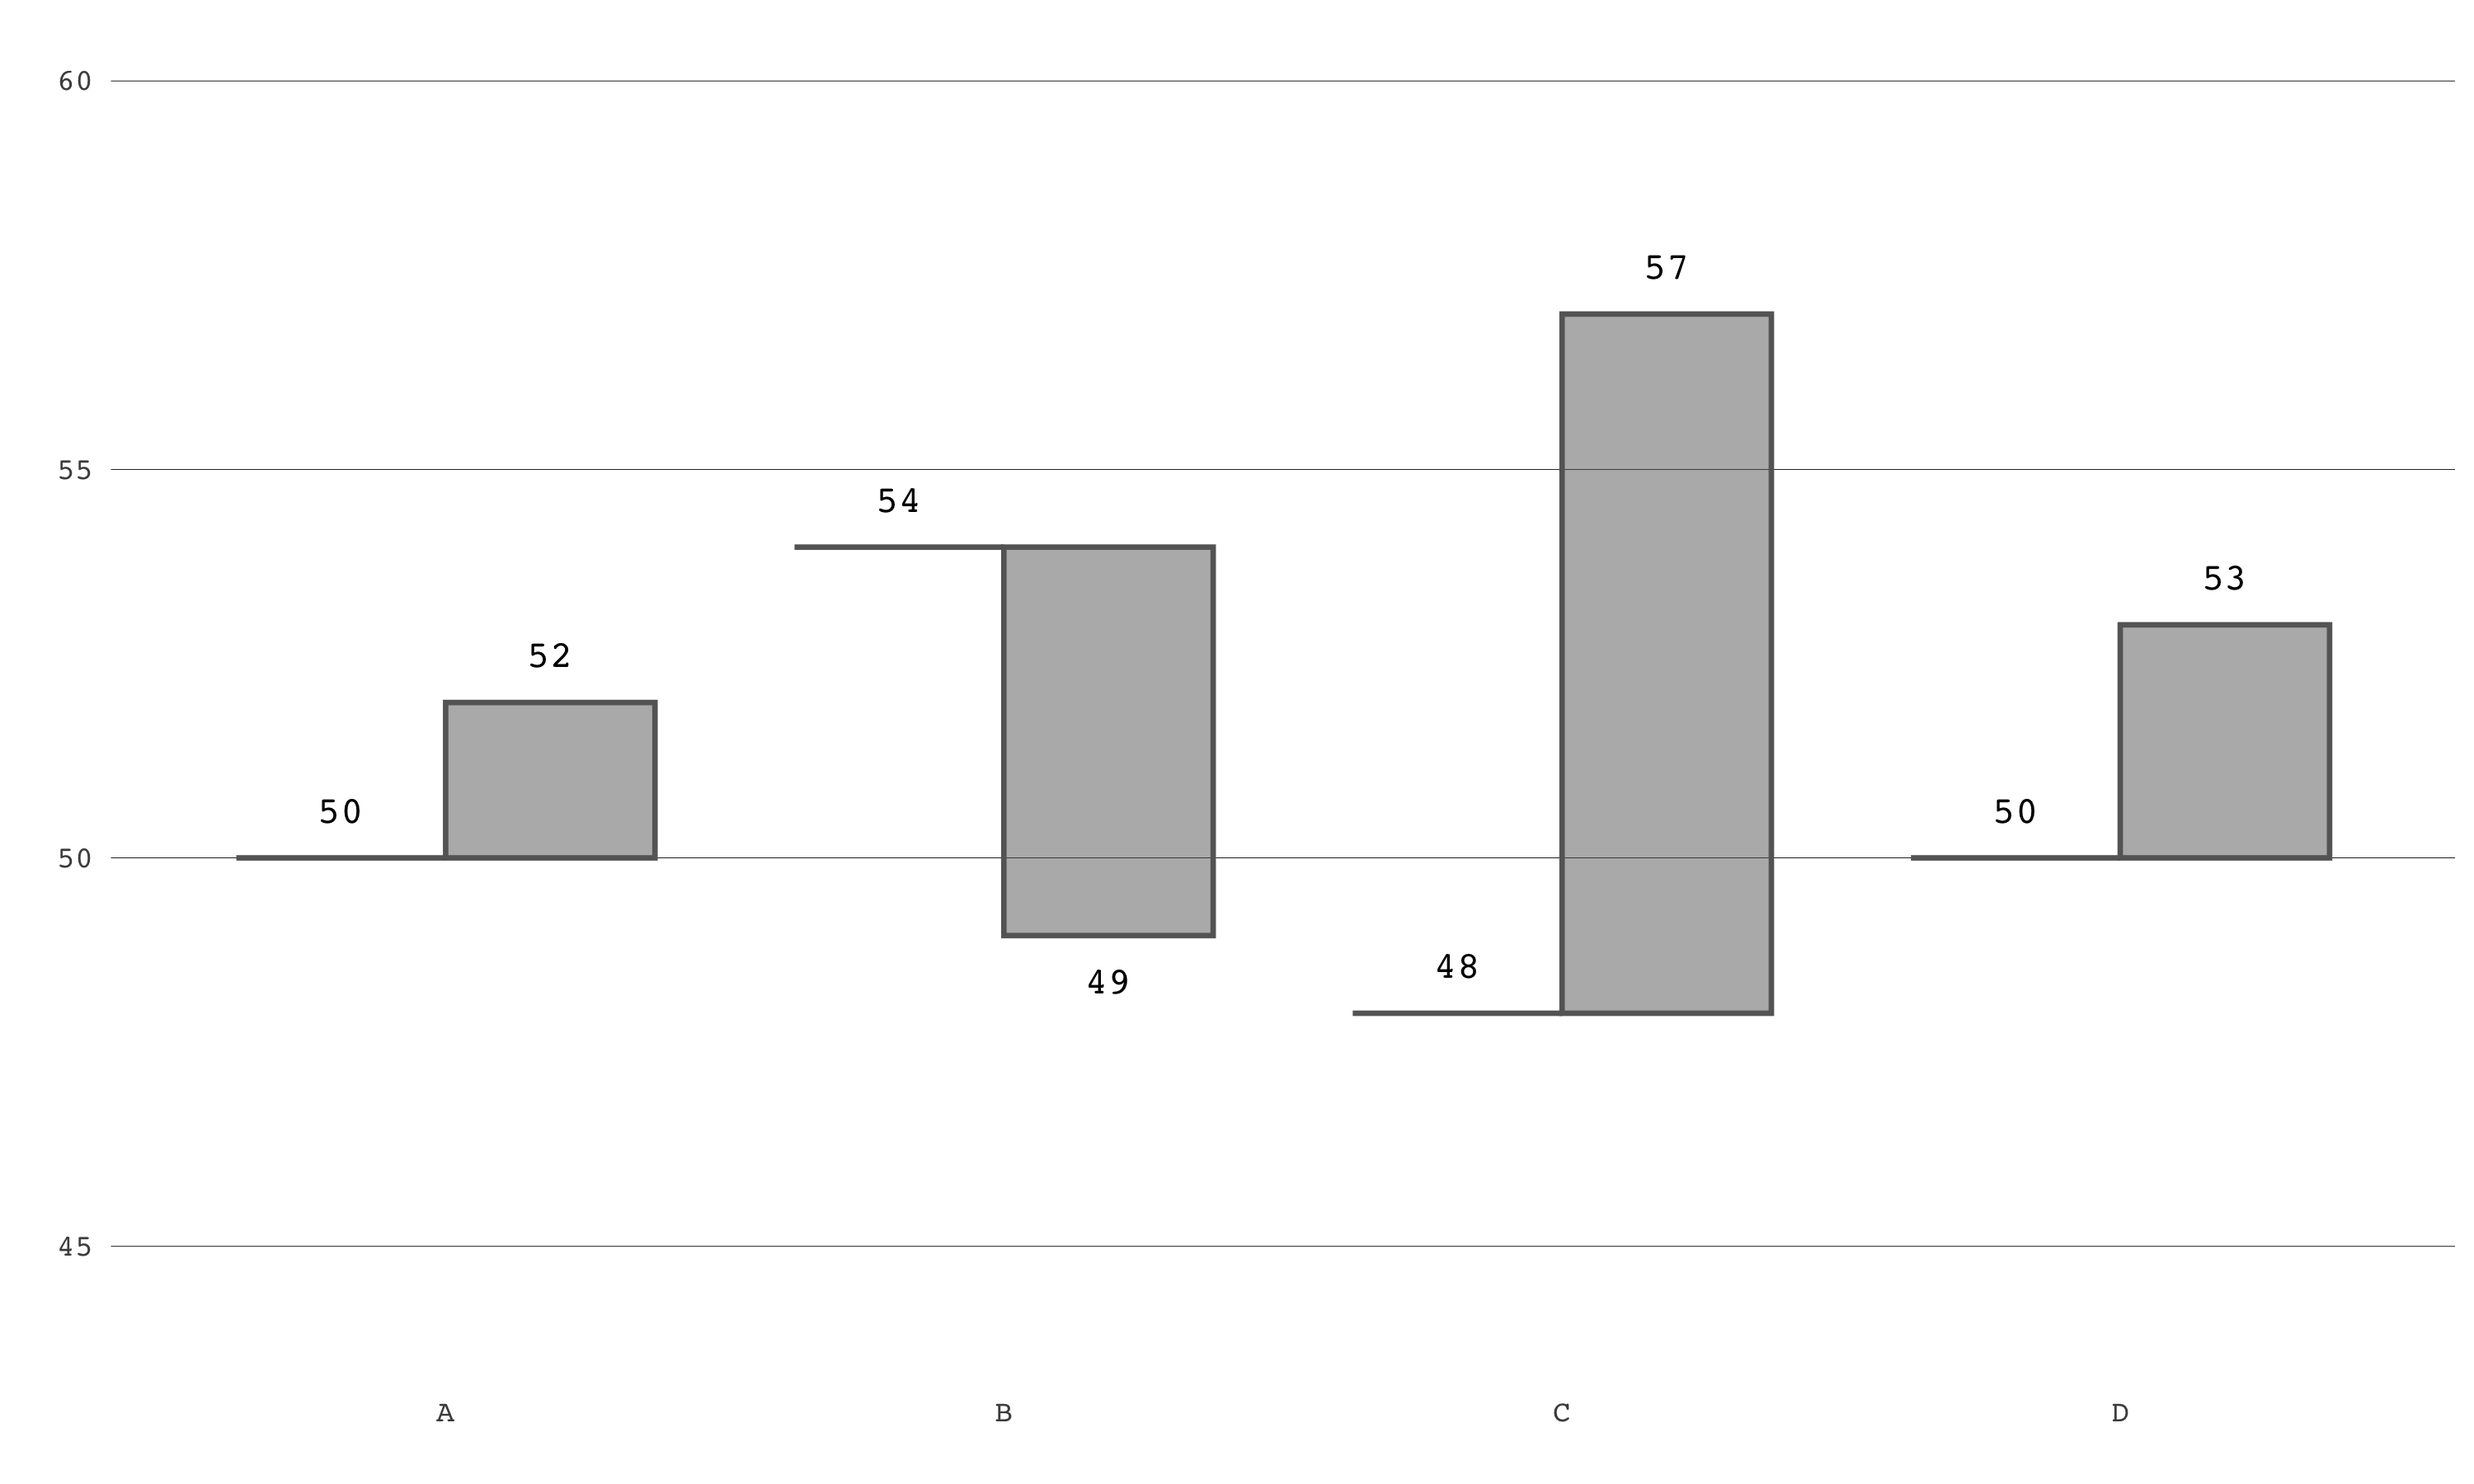
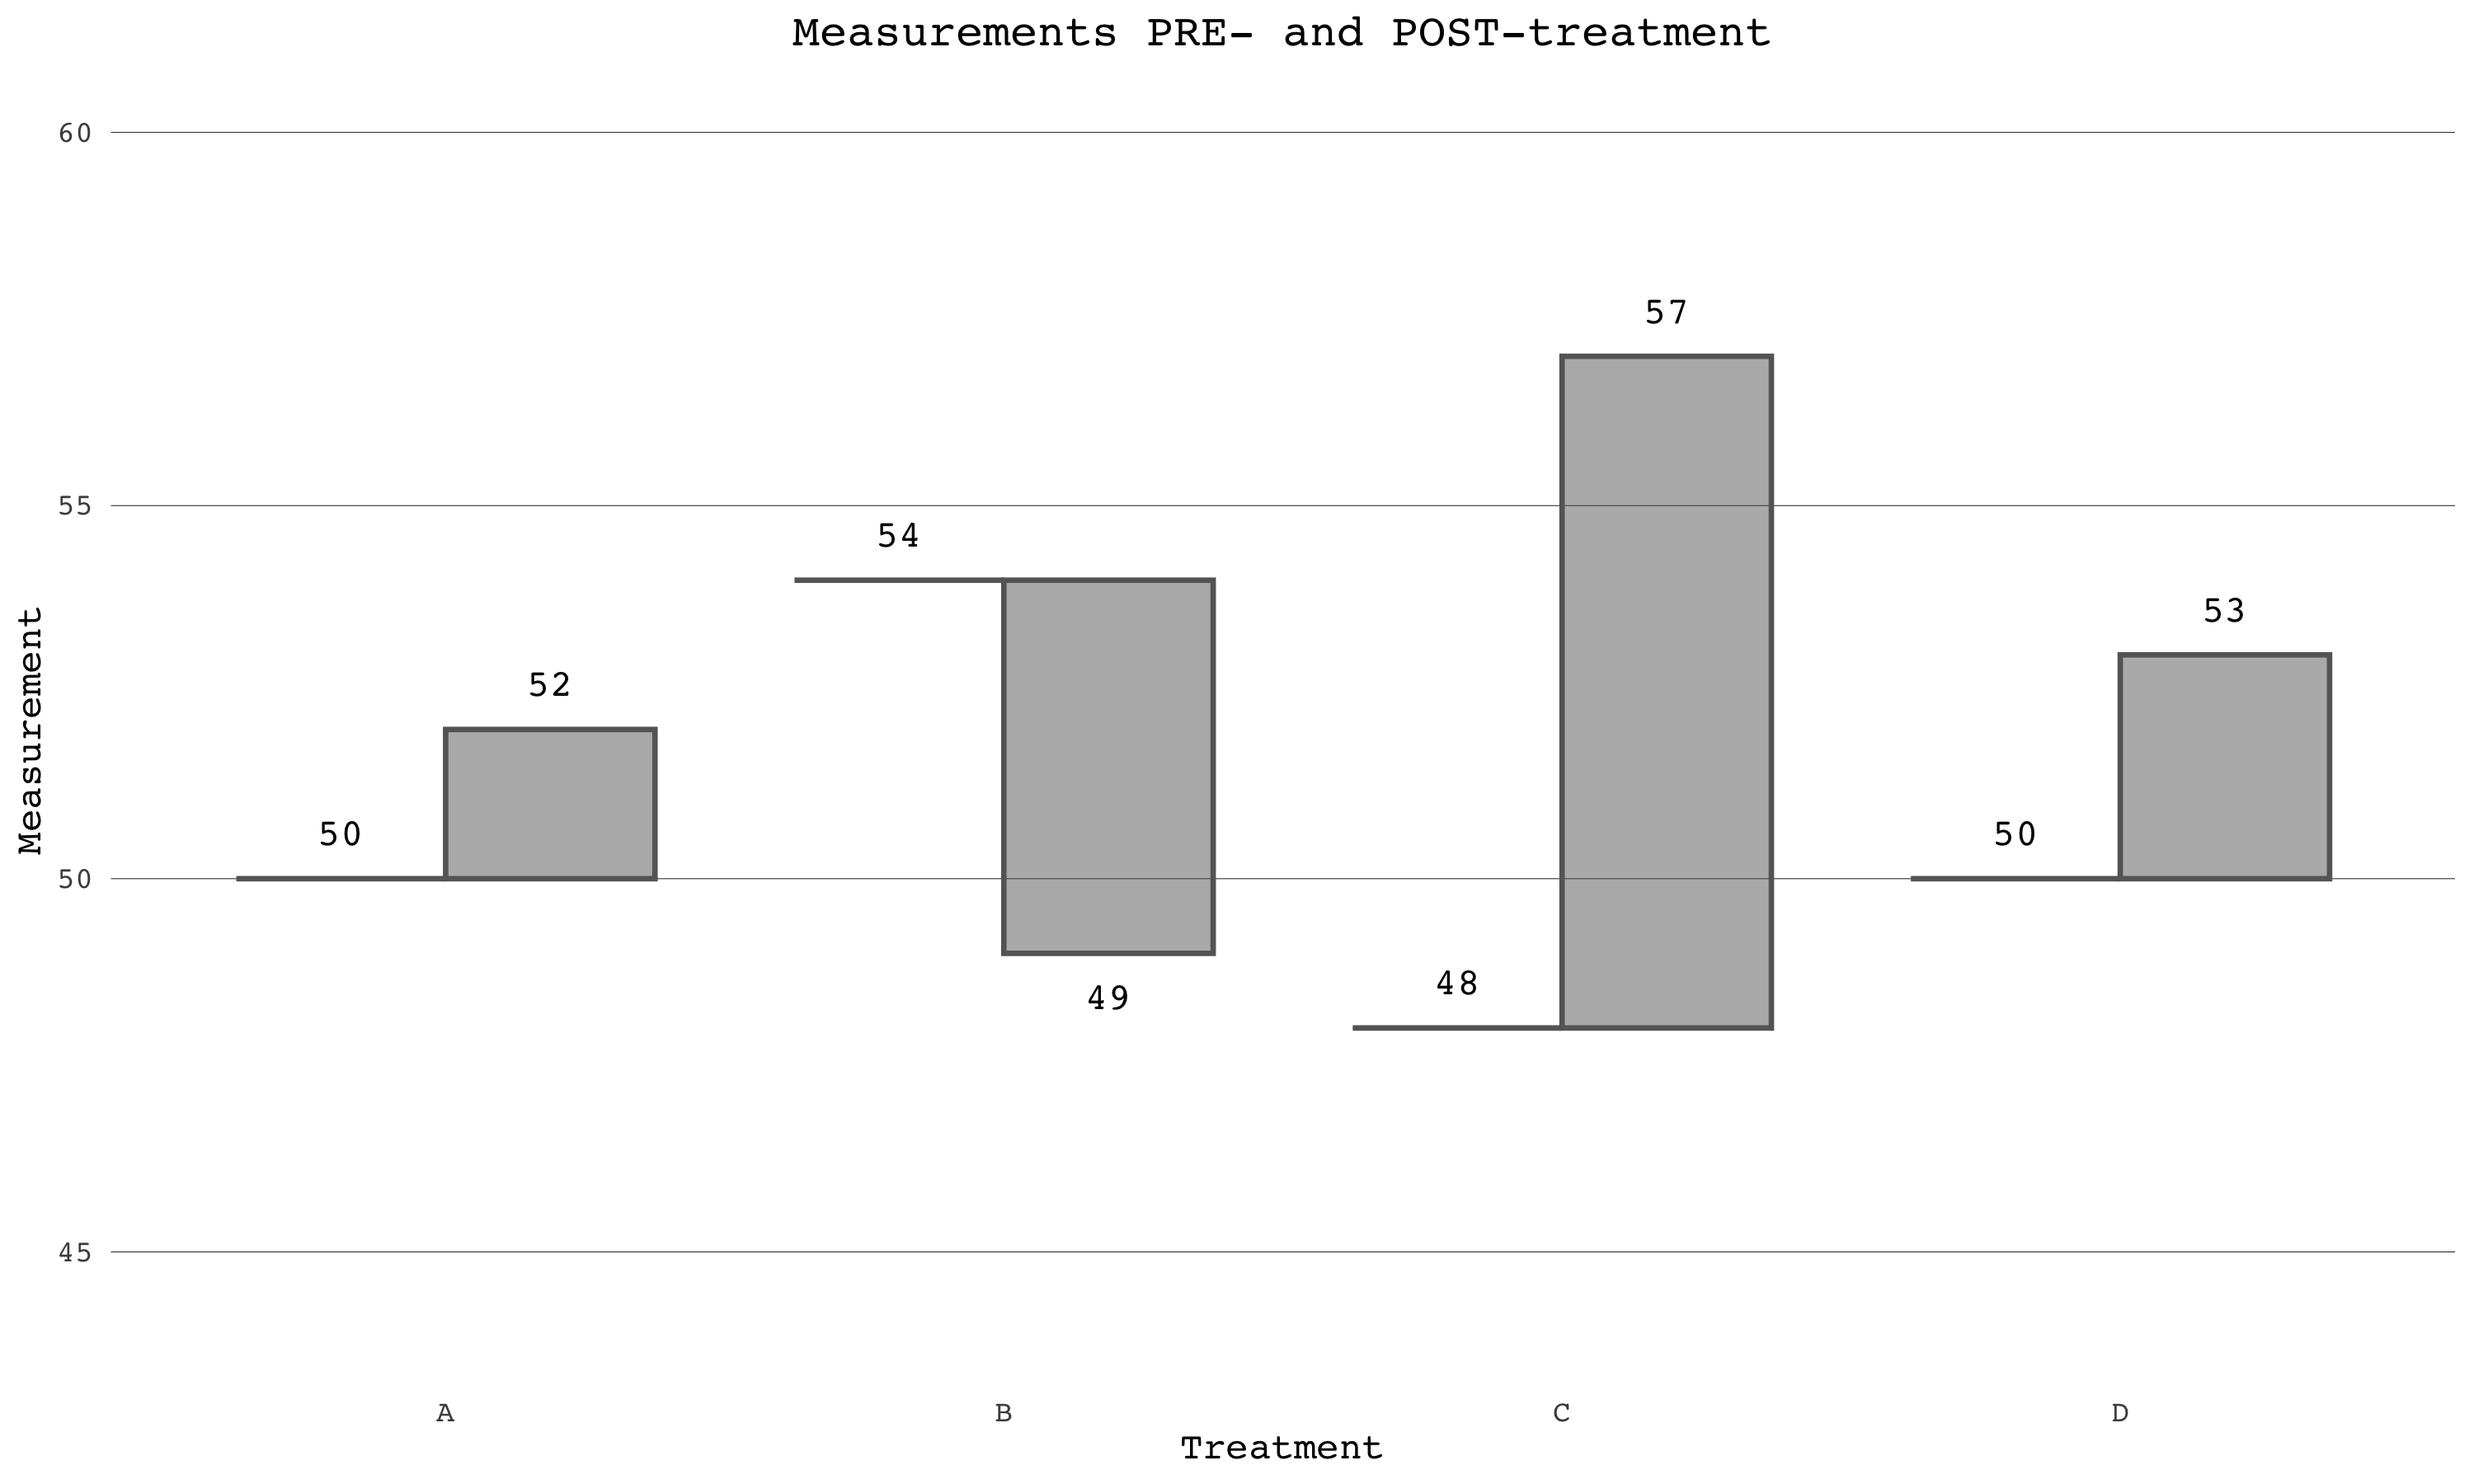
vignette and README updates, and minor documentation edits

diff --git a/README.md b/README.md
@@ -7,9 +7,9 @@
 <!-- badges: end -->
 
 The goal of gghat is to add functionality to ggplot, such that hat
-graphs are included in its repertoire. To this end, gghat includes
-geom_hat() as well as compatible positions to be used with geom_text()
-and geom_errorbar().
+graphs are included in its repertoire. To this end, gghat contains the
+hat geom as well as compatible position functions to be used with the
+text and errorbar geoms.
 
 ## Installation
 
@@ -18,7 +18,7 @@ You can install the development version of gghat from GitHub:
 ``` r
 # install.packages("devtools")
 # library(devtools)
-devtools::install_github("eliashyde/gghat")
+# devtools::install_github("eliashyde/gghat")
 ```
 
 ## Example
@@ -62,9 +62,11 @@ ggplot(my_data, aes(x = treatment, y = mean, group = condition)) +
     panel.grid.major.x = element_blank(),
     panel.grid.major.y = element_line(linewidth = 0.1, color = "black"),
     panel.grid.minor.y = element_blank(),
+    plot.title = element_text(hjust = 0.5)
   ) +
-  xlab("") +
-  ylab("")
+  xlab("Treatment") +
+  ylab("Measurement") +
+  ggtitle("Measurements PRE- and POST-treatment")
 ```
 
 <img src="man/figures/README-example-1.png" width="100%" />
